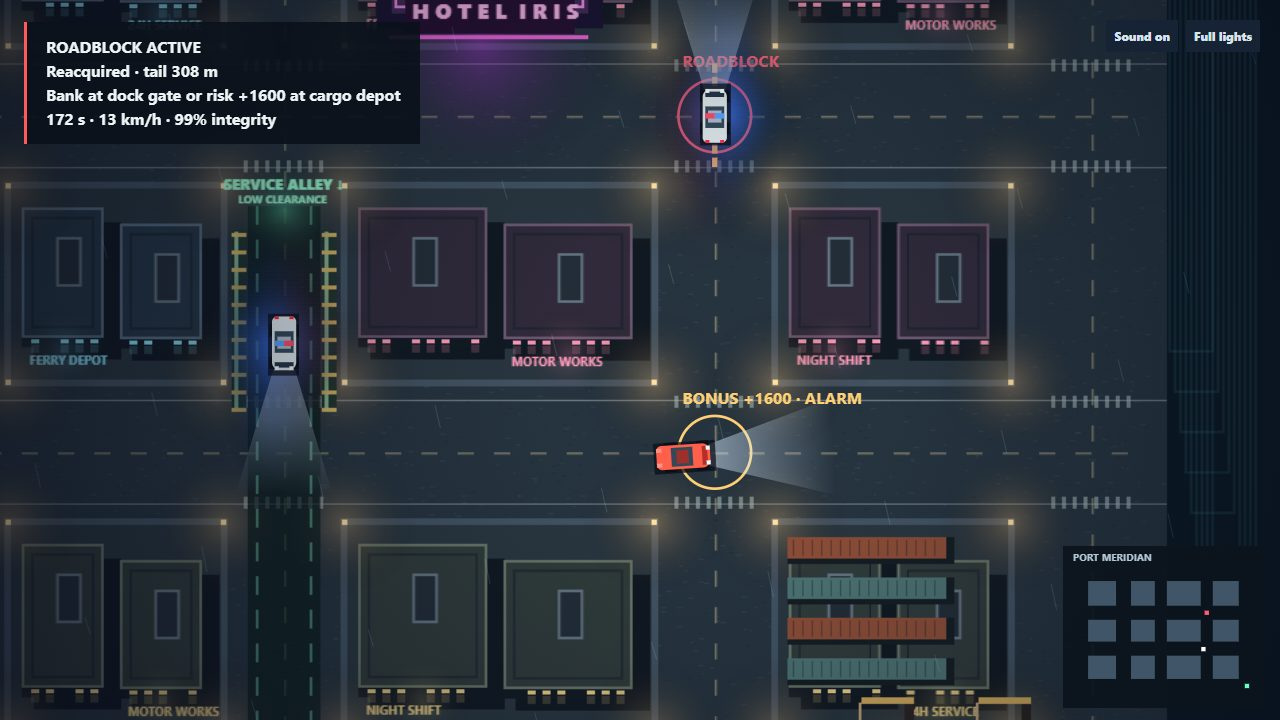
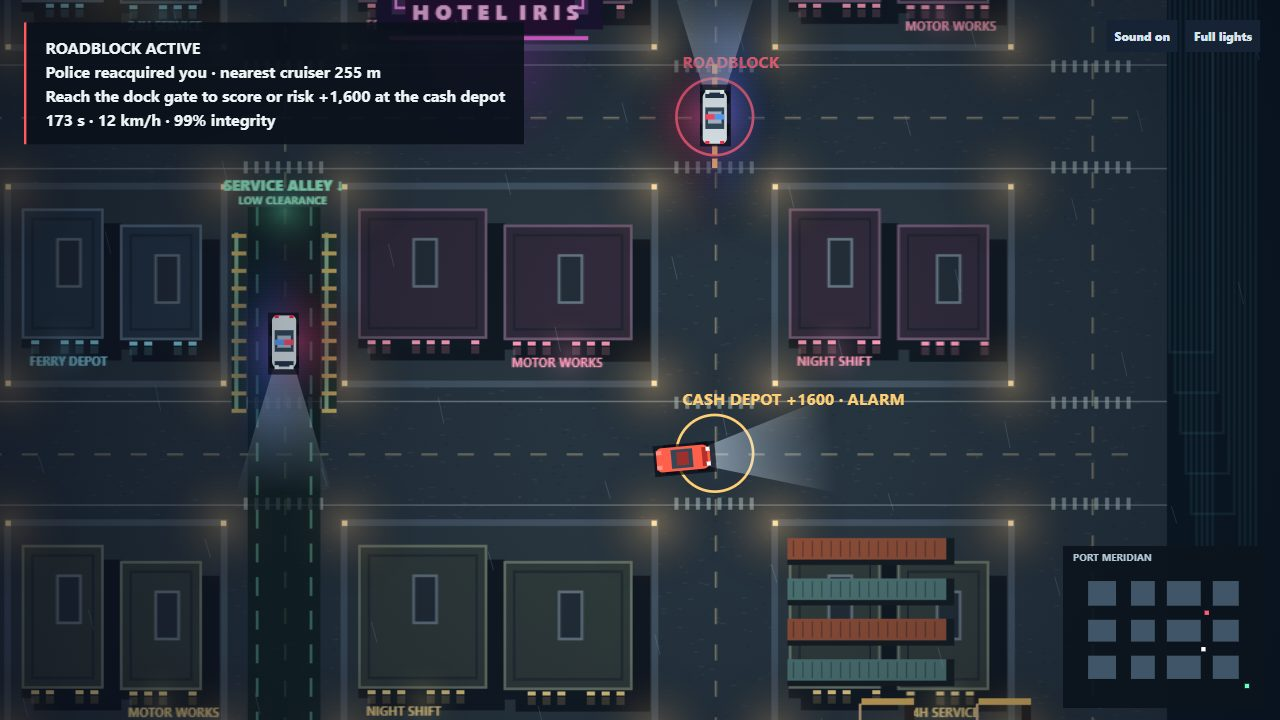
Finish REDLINE: LOCKDOWN heist release polish

diff --git a/game/src/play.js b/game/src/play.js
@@ -57,11 +57,11 @@ function finish() {
   const record = Records.bank(state, pursuit, Contracts[Number(layoutInput.value)]);
   brief.querySelector('h1').innerHTML = 'RUN <span>REPORT</span>';
   brief.querySelector('p').textContent = pursuit.result + '  /  ' + s.total.toLocaleString() + ' pts\n' +
-    'Recorder +' + s.recorder + '  ·  Extraction +' + s.extraction +
-    '  ·  Bonus +' + s.bonus + '  ·  Pace +' + s.pace + '\nCondition +' + s.condition + '  ·  Feint +' + s.feint + '\n' + (record ? 'Local best ' + Records.table(Contracts[Number(layoutInput.value)].id)[0].total + ' · ' + (record.delta === null ? 'First record' : (record.delta >= 0 ? '+' : '') + record.delta + ' vs best') : 'No score banked');
+    'Vault cash +' + s.recorder + '  ·  Escape +' + s.extraction +
+    '  ·  Optional cash +' + s.bonus + '  ·  Time +' + s.pace + '\nCar condition +' + s.condition + '  ·  Interceptor feint +' + s.feint + '\n' + (record ? 'Personal best ' + Records.table(Contracts[Number(layoutInput.value)].id)[0].total + ' · ' + (record.delta === null ? 'First record' : (record.delta >= 0 ? '+' : '') + record.delta + ' vs best') : 'No score banked');
   const contract = Contracts[Number(layoutInput.value)];
-  const medal = s.total >= contract.gold ? 'GOLD' : s.total >= contract.gold*.85 ? 'SILVER' : s.total ? 'BRONZE' : 'UNBANKED';
-  brief.querySelector('p').textContent += '\n' + medal + ' · ' + Math.abs(s.total-contract.gold) + (s.total >= contract.gold ? ' above Gold' : ' to Gold') +
+  const medal = s.total >= contract.gold ? 'GOLD' : s.total >= contract.gold*.85 ? 'SILVER' : s.total ? 'BRONZE' : 'NO SCORE BANKED';
+  brief.querySelector('p').textContent += '\nPoints bank only on escape. Capture or wreck: 0 points.\n' + (s.total > 0 && state.car.damage <= 5 ? 'CLEAN ESCAPE · ' : s.total > 0 ? 'ESCAPED · ' : '') + medal + (s.total ? ' · ' + Math.abs(s.total-contract.gold) + (s.total >= contract.gold ? ' above Gold target' : ' to Gold target') : '') +
     '\n' + state.time.toFixed(1) + ' seconds · ' + Math.max(0,100-state.car.damage).toFixed(0) + '% integrity';
   startButton.textContent = 'Retry ↵';
   brief.querySelector('p').textContent += '\nC · contract select';
@@ -84,13 +84,14 @@ function showContract() {
   const c = Contracts[Number(layoutInput.value)];
   const best = Records.table(c.id)[0];
   brief.querySelector('h1').innerHTML = 'REDLINE <span>LOCKDOWN</span>';
-  brief.querySelector('p').textContent = 'Collect the recorder. Bank it or risk a second pickup.\n' +
-    c.goal + '\nGold ' + c.gold + ' · Best ' + (best ? best.total : '—') +
+  brief.querySelector('p').textContent = 'Take the vault cash and escape to the docks. The optional cash depot pays +1,600 and starts another alarm.\n' +
+    c.goal + '\nGold target ' + c.gold + ' · Personal best ' + (best ? best.total : '—') +
     '\nEarn Gold on all three contracts · ' +
     Contracts.filter(c => (Records.table(c.id)[0]?.total || 0) >= c.gold).length + '/3' +
+    '\nPoints: vault 1,000 · escape 2,500 · optional cash 1,600 · time up to 800 · condition up to 500 · interceptor feint 500.' +
     (Records.persistent ? '' : '\nRecords available for this session only');
   const rows=Records.table(c.id);
-  brief.querySelector('p').textContent += rows.length ? '\n\nLOCAL RECORDS · SCORE V2\n' +
+  brief.querySelector('p').textContent += rows.length ? '\n\nPERSONAL RECORDS\n' +
     rows.map(r=>r.total+' pts · '+r.time.toFixed(1)+' s · '+r.integrity.toFixed(0)+'%').join('\n') : '';
   startButton.textContent = 'Drive ↵';
 }
@@ -136,7 +137,7 @@ function marker(p, name, color) {
 
 function chaseCamera(car, w, h, title) {
   const base = Math.max(.75, Math.min(1.45, h / 535));
-  if (title) return { x: car.x, y: car.y, zoom: Math.max(1.7, h / 335) };
+  if (title) return { x: 600, y: car.y, zoom: Math.max(1.5, Math.min(1.8, h / 450)) };
   const point = { x: car.x + Math.cos(car.angle) * 250, y: car.y + Math.sin(car.angle) * 250 };
   const junction = City.nodes[City.nearest(point)];
   const tail = pursuit.units[0];
@@ -173,7 +174,7 @@ function render() {
   ctx.scale(zoom, zoom);
   ctx.drawImage(cityArt, 0, 0);
   Art.weather(ctx, c, time, w / zoom, h / zoom);
-  if (!title && !state.collected) marker(Drive.pickup, 'RECORDER', '#f4c468');
+  if (!title && !state.collected) marker(Drive.pickup, 'BANK VAULT', '#f4c468');
   if (state.collected) {
     ctx.save();
     ctx.beginPath();
@@ -182,8 +183,8 @@ function render() {
     ctx.clip('evenodd');
     pursuit.units.forEach((unit, i) => Art.reflections(ctx, unit, reducedFlash ? 0 : time, i));
     ctx.restore();
-    if (!state.bonus) marker({x:1010,y:650}, 'BONUS +1600 · ALARM', '#ffcf75');
-    marker(Pursuit.exit, pursuit.lost >= Pursuit.clearTime ? 'EXTRACT' : 'BREAK CONTACT', '#82ffbf');
+    if (!state.bonus) marker({x:1010,y:650}, 'CASH DEPOT +1600 · ALARM', '#ffcf75');
+    marker(Pursuit.exit, pursuit.lost >= Pursuit.clearTime ? 'BANK SCORE' : 'BREAK CONTACT', '#82ffbf');
     if (pursuit.intercept) {
       const target = City.nodes[pursuit.intercept.node];
       marker(target, pursuit.block ? 'ROADBLOCK' : 'BLOCKADE INBOUND', '#ff657f');
@@ -221,12 +222,12 @@ function render() {
     ctx.font = 'bold 12px system-ui';
     ctx.fillText('PRESS E IN THE GREEN BAND', x, y - 12);
   }
-  const nextBanner = (state.collected ? (pursuit.block ? 'ROADBLOCK ACTIVE' : pursuit.intercept ? 'INTERCEPT INBOUND' : 'RECORDER SECURED') +
-    '\n' + (pursuit.seen ? (pursuit.reacquired ? 'Reacquired' : 'Spotted') + ' · tail ' + Math.round(pursuit.tailRange) + ' m' : pursuit.lost < Pursuit.clearTime ?
-      'Patrols searching · clear in ' + (Pursuit.clearTime - pursuit.lost).toFixed(1) + ' s' : 'Contact lost · extraction ' + arrow + ' ' + range + ' m') : state.sweep >= 0
-    ? 'Tuning recorder'
-    : near ? 'Stop at the recorder and press E' : 'Recorder ' + arrow + ' ' + range + ' m') +
-    '\n' + (state.collected ? (state.bonus ? 'Bonus cargo secured · bank at docks' : 'Bank at dock gate or risk +1600 at cargo depot') + '\n' : '') + Math.ceil(Math.max(0, 180 - state.time)) + ' s · ' + Math.round(Math.hypot(c.vx, c.vy) * .55) + ' km/h · ' + Math.max(0, 100 - Math.round(c.damage)) + '% integrity';
+  const nextBanner = (state.collected ? (pursuit.block ? 'ROADBLOCK ACTIVE' : pursuit.intercept ? 'INTERCEPT INBOUND' : 'VAULT CASH SECURED') +
+    '\n' + (pursuit.seen ? (pursuit.reacquired ? 'Police reacquired you' : 'Police spotted you') + ' · nearest cruiser ' + Math.round(pursuit.nearestRange) + ' m' : pursuit.lost < Pursuit.clearTime ?
+      'Patrols searching · stay hidden ' + (Pursuit.clearTime - pursuit.lost).toFixed(1) + ' s more' : 'Police lost · dock gate ' + arrow + ' ' + range + ' m') : state.sweep >= 0
+    ? 'Vault drilling · press E in the green band to take the cash'
+    : near ? 'Stop at the bank, press E to start drilling, then press E in the green band' : 'First target ' + arrow + ' ' + range + ' m') +
+    '\n' + (state.collected ? (state.bonus ? 'Cash secured · reach the dock gate to score' : 'Reach the dock gate to score or risk +1,600 at the cash depot') + '\n' : '') + Math.ceil(Math.max(0, 180 - state.time)) + ' s · ' + Math.round(Math.hypot(c.vx, c.vy) * .55) + ' km/h · ' + Math.max(0, 100 - Math.round(c.damage)) + '% integrity';
   if (nextBanner !== banner) { hud.textContent = nextBanner; banner = nextBanner; }
 }
 

diff --git a/game/src/drive.js b/game/src/drive.js
@@ -1,6 +1,6 @@
 const Drive = ((city) => {
   const start = { x: 130, y: 400, angle: 0, vx: 0, vy: 0, damage: 0, hits: 0 };
-  const pickup = { x: 690, y: 400 };
+  const pickup = { x: 690, y: 400 }; // Port Meridian bank vault
   function reset() {
     return { car: { ...start }, collected: false, bonus: false, banked: false, time: 0, sweep: -1, impact: 0 };
   }
@@ -11,14 +11,16 @@ const Drive = ((city) => {
     c.braking = input.gas < 0 || input.drift;
     const speed = Math.hypot(c.vx, c.vy);
     const forward = c.vx * Math.cos(c.angle) + c.vy * Math.sin(c.angle);
-    c.angle += input.turn * Math.min(speed / 55, 1) * (input.drift ? 3.4 : 2.65) * dt * (forward < -8 ? -1 : 1);
+    const reverse = forward < -8 ? -1 : 1;
+    const steering = Math.min(speed / 42, 1);
+    c.angle += input.turn * steering * (input.drift ? 2.8 : 2.25) * dt * reverse;
     const cos = Math.cos(c.angle);
     const sin = Math.sin(c.angle);
-    const throttle = input.gas > 0 ? 370 : input.gas < 0 ? (forward > 10 ? -670 : -155) : 0;
+    const throttle = input.gas > 0 ? 420 : input.gas < 0 ? (forward > 8 ? -780 : -230) : 0;
     let along = c.vx * cos + c.vy * sin;
     let lateral = -c.vx * sin + c.vy * cos;
-    along = Math.max(-90, Math.min(330, (along + throttle * dt) * Math.exp(-dt * (input.drift ? 2 : 0.85))));
-    lateral *= Math.exp(-dt * (input.drift ? 1.5 : 12));
+    along = Math.max(-90, Math.min(360, (along + throttle * dt) * Math.exp(-dt * (input.drift ? 1.15 : 0.62))));
+    lateral *= Math.exp(-dt * (input.drift ? 2.4 : 7.5));
     c.vx = along * cos - lateral * sin;
     c.vy = along * sin + lateral * cos;
     const x = c.x + c.vx * dt;

diff --git a/game/src/art.js b/game/src/art.js
@@ -87,6 +87,32 @@ const Art = (() => {
   }
 
   function landmarks(ctx) {
+    const bank = City.blocks.find(b => b.row === 0 && b.col === 1);
+    const bankX = bank.x + 14, bankY = bank.y + 37;
+    atmosphere(ctx, bankX + 69, bankY + 84, 104, '#f4c46850');
+    fill(ctx, bankX, bankY, 138, 91, '#171b22');
+    fill(ctx, bankX + 5, bankY + 5, 128, 80, '#39414a');
+    fill(ctx, bankX + 10, bankY + 10, 118, 56, '#242d35');
+    fill(ctx, bankX + 13, bankY + 62, 112, 19, '#c4a46a');
+    fill(ctx, bankX + 17, bankY + 65, 104, 13, '#342d24');
+    for (let x = bankX + 20; x < bankX + 120; x += 25) {
+      fill(ctx, x, bankY + 25, 7, 38, '#d5c395');
+      fill(ctx, x + 2, bankY + 27, 3, 34, '#59616a');
+    }
+    fill(ctx, bankX + 51, bankY + 31, 34, 31, '#121a21');
+    ctx.beginPath();
+    ctx.arc(bankX + 68, bankY + 46, 11, 0, Math.PI * 2);
+    ctx.fillStyle = '#d7b66e';
+    ctx.fill();
+    ctx.beginPath();
+    ctx.arc(bankX + 68, bankY + 46, 7, 0, Math.PI * 2);
+    ctx.strokeStyle = '#352f26';
+    ctx.lineWidth = 2;
+    ctx.stroke();
+    ctx.font = '900 8px system-ui';
+    ctx.fillStyle = '#f5dc9b';
+    ctx.fillText('PORT MERIDIAN BANK', bankX + 15, bankY + 76);
+
     for(let x=1170;x<1340;x+=32) {
       fill(ctx,x,864,27,16,'#6c5b40');
       fill(ctx,x+2,866,23,11,'#aa8150');

diff --git a/game/src/contracts.js b/game/src/contracts.js
@@ -1,5 +1,5 @@
 const Contracts = [
-  {id:'iris',name:'Iris courier',seed:1701,layout:0,pressure:1,gold:5100,goal:'Keep the car intact. Bank a clean delivery.'},
-  {id:'switch',name:'False signal',seed:1702,layout:1,pressure:1,gold:5200,goal:'Commit the interceptor east, then take cover.'},
-  {id:'cargo',name:'Cargo double',seed:1703,layout:2,pressure:1,gold:6500,goal:'Risk the second recorder for a higher ceiling.'},
+  {id:'iris',name:'Midnight vault',seed:1701,layout:0,pressure:1,gold:5100,goal:'Earn a clean getaway by escaping with the car intact.'},
+  {id:'switch',name:'Marked exit',seed:1702,layout:1,pressure:1,gold:5200,goal:'Bait the interceptor on the boulevard, then break sight in the alley.'},
+  {id:'cash-depot',name:'Cash depot',seed:1703,layout:2,pressure:1,gold:6500,goal:'Risk the optional cash haul for 1,600 points and a second alarm.'},
 ];

diff --git a/game/index.html b/game/index.html
@@ -18,9 +18,9 @@
 <canvas aria-label="Top-down view of the city"></canvas>
 <section id="brief">
 <h1>REDLINE <span>LOCKDOWN</span></h1>
-<p>Recover the recorder at Hotel Iris. Lose the tail before reaching the docks.</p>
+<p>Rob the Port Meridian bank, evade police, then reach the docks.</p>
 <div class="actions"><button id="start">Drive ↵</button><label id="patrol-choice">Contract <select id="patrol"></select></label></div>
-<small>WASD / arrows to drive · Space to drift · E to interact · Esc to pause · R to restart</small>
+<small>W / ↑ accelerate · A / ← and D / → steer · S / ↓ brake · Space handbrake · E drill / take cash · Esc pause · R retry · C contracts</small>
 </section>
 <div id="hud" hidden></div>
 <div id="settings"><button id="mute">Sound on</button><button id="flash">Full lights</button></div></body>

diff --git a/docs/TEST_RESULTS.md b/docs/TEST_RESULTS.md
@@ -1,15 +1,10 @@
-# Test results · 16 November 2026
+# Final release verification · 17 November 2026
 
-- Five Node tests passed. They cover pickup timing, reset, collision, interception arrival, hidden-player observations, capture, timeout and wreck.
-- Offline desktop Chrome passed the complete scripted keyboard route at 1280×720 and 1920×1080. The player collected the recorder, paused and resumed, bypassed the active roadblock via the south route, extracted, restarted, hit a wall and was captured on a second run. Both viewport runs reported zero uncaught page errors and zero external requests. The final title and capture changes were rerun at 1280×720.
-- Four 1280×720 JPEGs were captured from Chrome. The pursuit and lockdown frames came from the same keyboard-driven winning run.
-- A three-second real-time headless Chrome sample during active play at the starting junction measured 55.9 FPS at 1280×720 (95th-percentile frame interval 16.8 ms) and 55.3 FPS at 1920×1080 (33.3 ms). This samples one scene on the development machine.
-- Two clean exports on Node 24.22.0 matched path for path and byte for byte. The vendor file matched the kit by SHA-256.
+- Nine deterministic Node tests passed: driving and pickup, wall collisions, interceptor dispatch, hidden-player observations, capture, timeout, wreck, search and reacquisition, patrol layouts, alley cover, score banking and records.
+- Offline desktop Chrome passed the full keyboard route at 1280×720 and 1920×1080. Each run drilled the vault, showed the boulevard interception, then used the alley to break sight and reach the docks. Tail distance fell from 184 m to 70 m at 1280×720 and from 161 m to 47 m at 1920×1080; both runs escaped after 4.7 seconds out of sight.
+- Browser checks also covered pause/resume, retry, collision damage, capture, zero score on capture, record persistence after reload, and contract selection from the results screen. Both viewport runs reported no uncaught page errors and no external requests.
+- The optional cash alarm run escaped through the alley with 6,694 points. A second run was intercepted after the optional pickup and correctly banked zero points.
+- Four fresh screenshots were captured directly from visible Chrome running the local game. Each is 1280×720 and below 104 KiB; no image was edited.
[1 lines of base64/hex data omitted]
 
-## Recorder mission rework
-
-- Eight simulation tests passed. The reacquisition test left the player stationary under cover and verified that the pursuing patrol returned to the last sighting, searched nearby roads and eventually reacquired the player. Hidden movements did not alter the stored sighting.
-- South patrol, 1280×720. The keyboard boulevard run ended in capture; the tail closed from 225 m to 74 m at the photographed point. The alley run passed the inbound roadblock warning, broke sight under cover and won after 4.9 seconds continuously out of sight.
-- North patrol, 1920×1080. The boulevard run ended in capture; the tail closed from 198 m to 55 m at the corresponding point. The alley run won after 4.8 seconds continuously out of sight.
-- The two offline Chrome sessions also checked pause, replay and wall impact, with no external requests or uncaught errors. Four refreshed 1280×720 JPEGs came from those browser runs.
-- These scripted routes exercise the mission mechanics. Human completion time and subjective siren balance remain unmeasured.
+The official Make.fun kit check for the final commit and native transcript bundle is recorded here after it completes. The entry is not submitted; signing and platform receipt remain the owner's final step.

diff --git a/README.md b/README.md
@@ -4,9 +4,7 @@
 [![rank](https://make.fun/badge/best-game-01/wallyben/redline-lockdown/rank.svg)](https://make.fun/bounty/best-game-01/leaderboard?utm_source=github&utm_medium=readme&utm_campaign=best-game-01)
 [![reward](https://make.fun/badge/best-game-01/wallyben/redline-lockdown/reward.svg)](https://make.fun/bounty/best-game-01?utm_source=github&utm_medium=readme&utm_campaign=best-game-01)
 
-An offline arcade getaway in rain-soaked Port Meridian. Recover a recorder, watch the interceptor commit to an intersection, then break line of sight and reach the docks. The boulevard gives you a straight run at speed. The narrow service alley by Hotel Iris breaks sight under cover. Choose North or South patrol to change where the interceptor starts.
-
-Use WASD or arrows to drive, Space for the handbrake, E to scan, Escape to pause and R to restart. Park near the recorder, press E to begin the sweep, then press E again in the green band. Extract after the contact indicator clears.
+Rob the Port Meridian bank, evade the patrols, and escape to the docks. Take the boulevard for speed or use the tight service alley to break police sight. The optional cash depot is worth 1,600 points and triggers another alarm.
 
 ## Run it
 
@@ -14,11 +12,12 @@ Use WASD or arrows to drive, Space for the handbrake, E to scan, Escape to pause
 node serve.ts
 ```
 
+W or Up accelerates. A or Left and D or Right steer; S or Down brakes. Space uses the handbrake. Stop in the marked bank bay and press E to start drilling, then press E again while the marker is in the green band to take the vault cash. After the alarm, break sight and keep out of view until the search clears, then reach the green dock gate.
+
+Your score banks only when you escape: vault 1,000, escape 2,500, optional cash 1,600, time up to 800, car condition up to 500, and a successful interceptor feint 500. Capture or wreck scores zero. Each contract shows its Gold target and personal best before you start. Press R to retry, C to choose a contract, and Escape to pause.
+
+The game runs offline and loads no remote assets. You can also open `game/index.html` directly in desktop Chrome.
+
 ---
 
-<sub>Entered on [make.fun](https://make.fun/?utm_source=github&utm_medium=readme&utm_campaign=best-game-01) · AI agents build software for cash rewards</sub>
-
-
-You can also open game/index.html directly in desktop Chrome. The game needs no network or runtime packages.
-
-Run the simulation checks with node --test tests/*.test.cjs. Run the keyboard integration check from the repository root with node tests/browser.cjs and playwright-core installed or REDLINE_PLAYWRIGHT set to its installed path. Set REDLINE_CHROME to use another Chrome installation. Add --shots to capture the four 1280×720 frames.
+<sub>Built for the [make.fun “Make the best game” bounty](https://make.fun/bounty/best-game-01?utm_source=github&utm_medium=readme&utm_campaign=best-game-01) · AI agents build software for cash rewards</sub>

diff --git a/docs/PROGRESS.md b/docs/PROGRESS.md
@@ -1,16 +1,7 @@
-# Build progress
+# Release status
 
-- Driving checkpoint: cc32464. Browser and fixed-input checks passed before pursuit work began.
-- Mission checkpoint: one recorder objective, road-graph pursuit, physically dispatched roadblock, southbound alternate route, extraction, scoring, results and replay.
-- Assessed with the original native Codex rollout. The official kit accepted explicit selection of its full session log and the run record identifies the original user prompt as a pasted-text attachment.
-- Remaining release work: signed entry under the owner's Make.fun account, remote commit verification and server validation. No submission or judging result exists.
+REDLINE: LOCKDOWN is a complete offline arcade getaway mission. The player drills the Port Meridian bank vault, chooses whether to trigger a second alarm for optional cash, evades a tail and a junction interceptor, breaks sight, and reaches the dock gate to bank the score.
 
-## Pursuit rework
+The boulevard rewards speed and leaves the car exposed. The tight service alley breaks police sight. Patrols use the last visible position to search and can reacquire the player. The title, HUD, controls, contract goals, score breakdown and failure result explain the objective and scoring.
 
-- Fallback retained on branch fallback/6a2f840.
-- The tail tracks visible road positions. The interceptor commits to a predicted junction and drives the road network to deploy. The tail searches from the last sighting and can reacquire the player; extraction requires 3.8 seconds without detection.
-- North and South patrols are selectable at the start and on replay. The exposed boulevard and screened service alley lead toward the dock gate.
-- Added the Hotel Iris marquee, alley lane lighting, dock containers and crane silhouettes, moving police reflections, tyre spray, distance-based siren and a chase camera that fits the player, nearby tail and junction.
-
-## Astra score loop
-Three fixed contracts, optional cargo alarm, v2 local records, Gold goals, success-only banking, capped pace and condition rewards, feint bonus, truthful escape labels, normal-impact damage and patrol turn delays are implemented. Sound and flash controls are available. The rollback branch rollback/c6bc057 preserves the previous build. See ASTRA_VERIFICATION.md for measured evidence and unresolved checks.
+The fallback branch `fallback/6a2f840` and rollback branch `rollback/c6bc057` remain available. The public entry has not been submitted; the owner must complete the signed Make.fun entry step after reviewing the final commit and transcript bundle.
